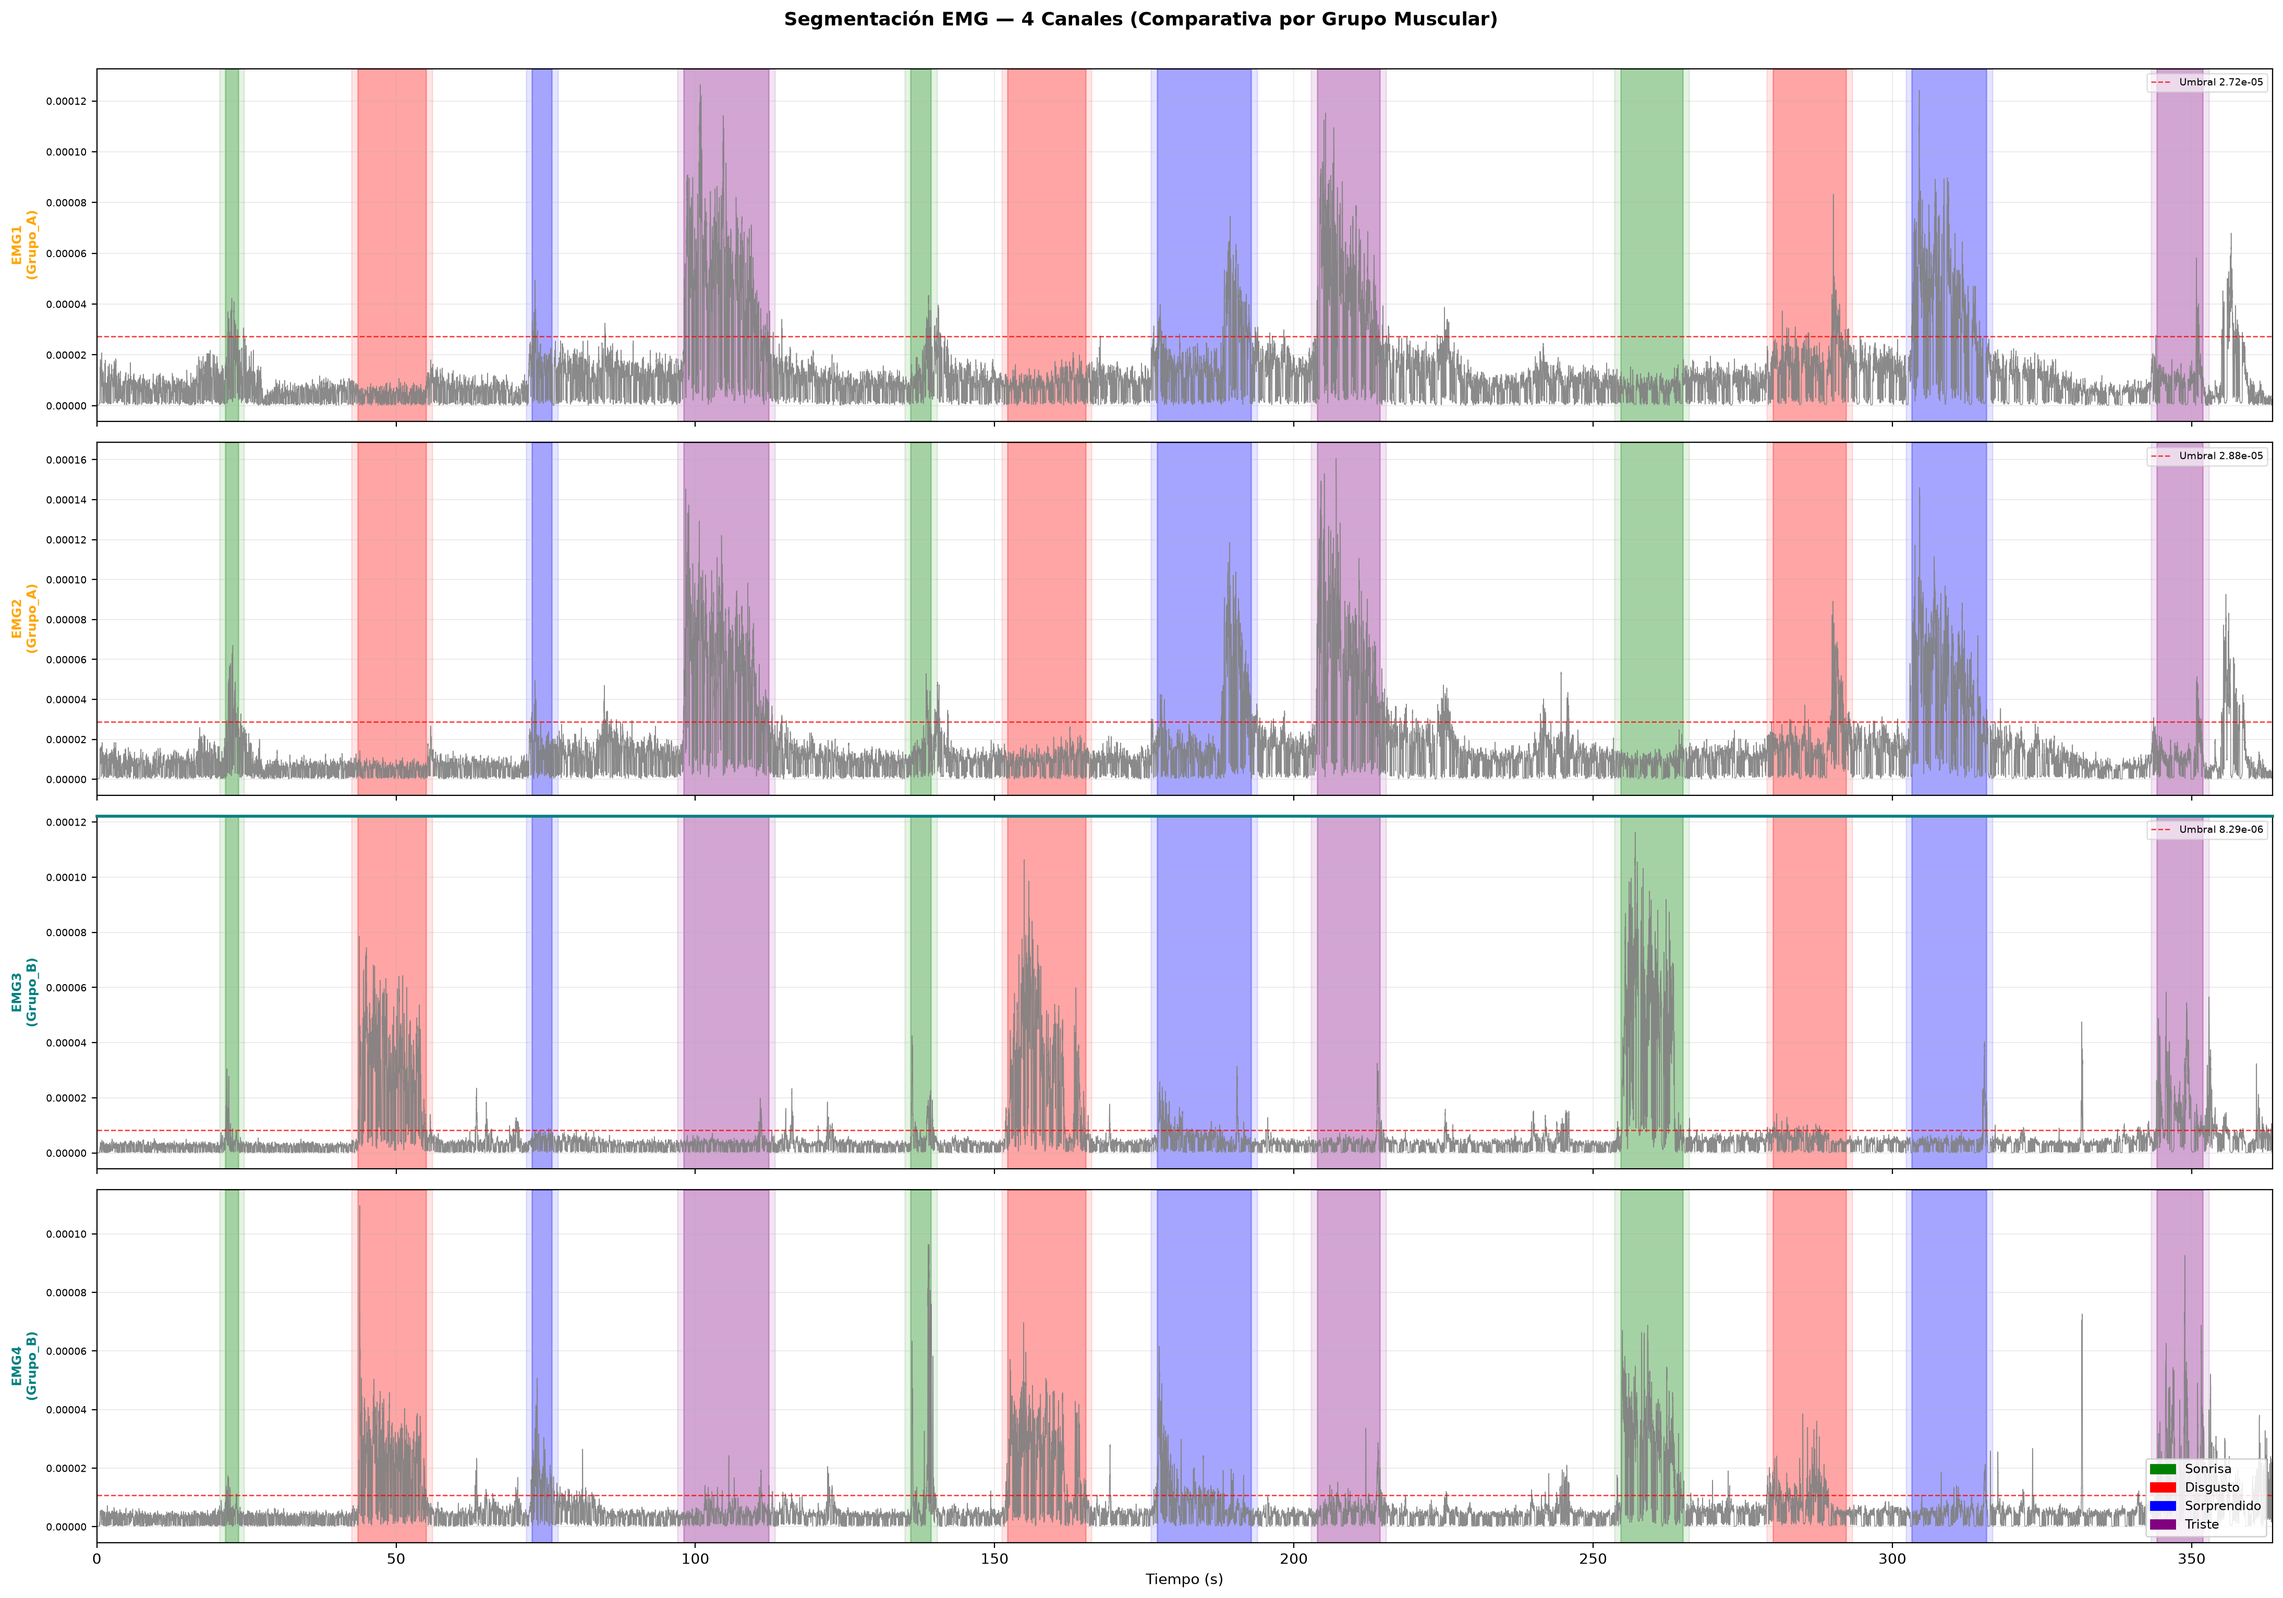
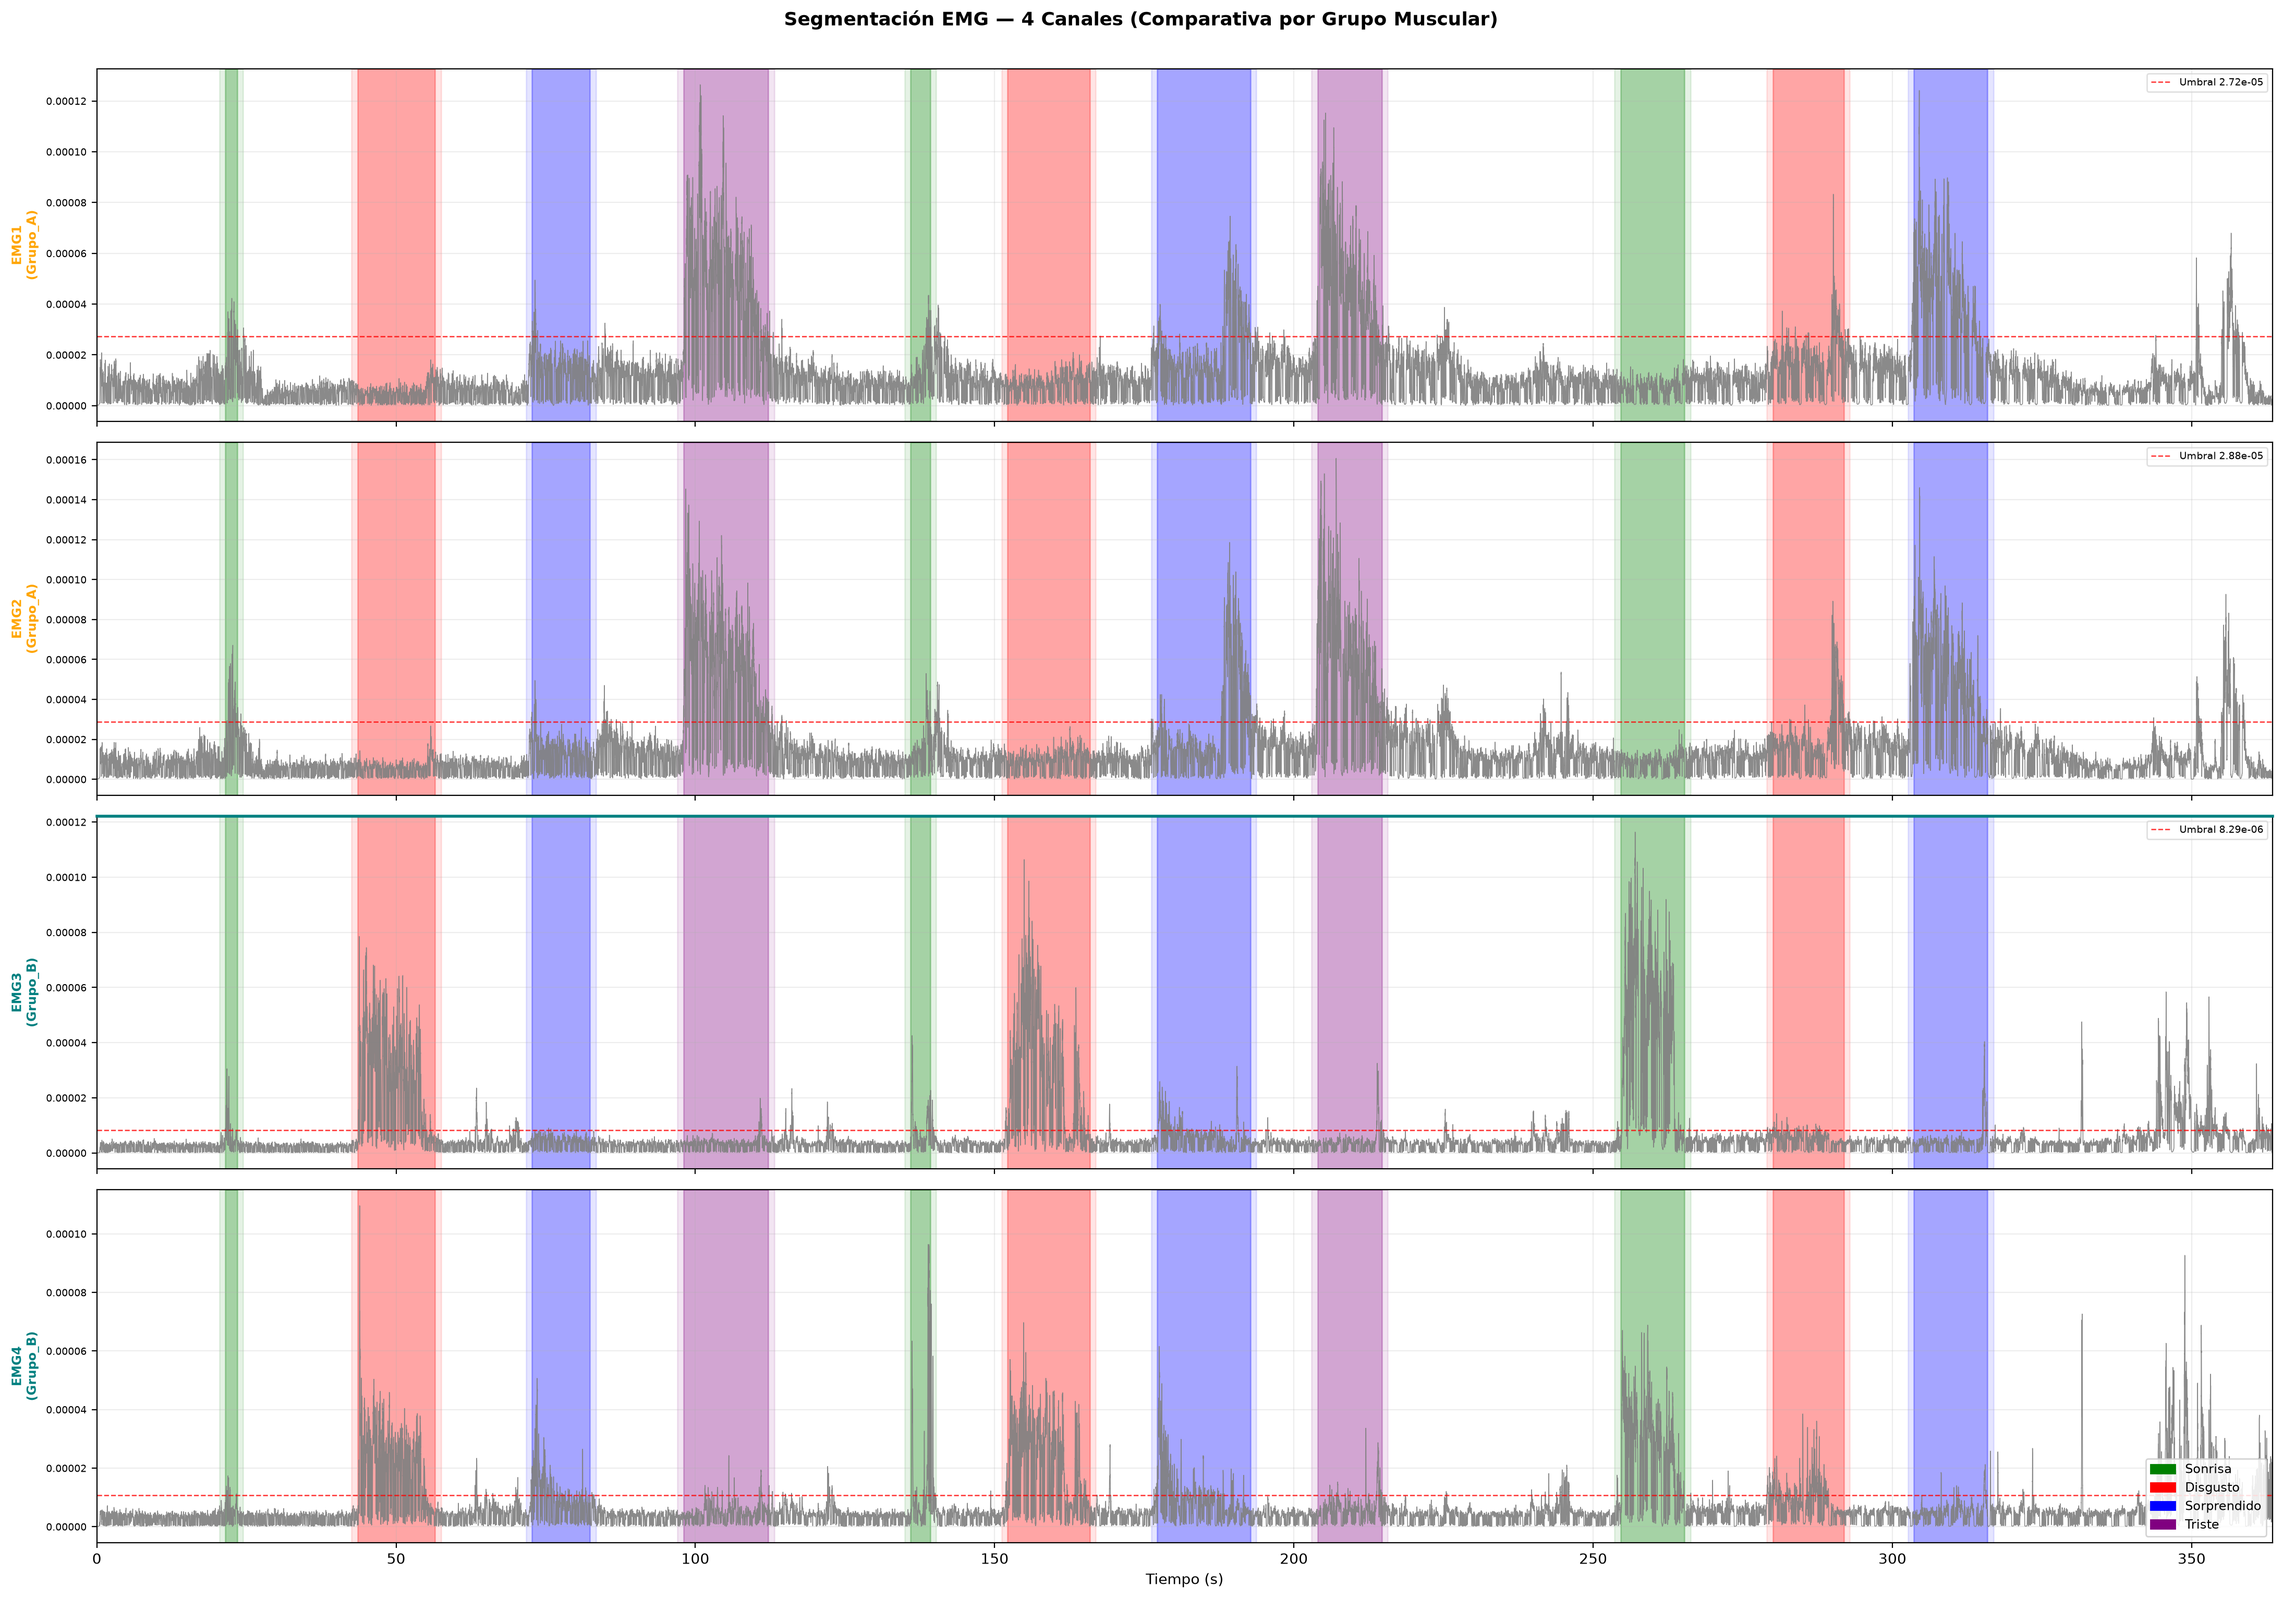
Delimitacion de ROI

diff --git a/main/run_segmentation.py b/main/run_segmentation.py
@@ -40,17 +40,21 @@ if __name__ == "__main__":
         baseline_window_sec=20.0,           # usado solo si use_rolling_baseline=False
 
         # Umbral doble / hysteresis: apagado mas laxo que encendido
-        k_offset_ratio=0.6,
+        k_offset_ratio=0.8,
         k_offset_ratio_per_group={
-            "Grupo_A": 0.6,
-            "Grupo_B": 0.6,
+            "Grupo_A": 0.8,
+            "Grupo_B": 0.2,
         },
 
         # Refinamiento con baseline local pre-countdown (5s antes del countdown)
         use_local_baseline_refinement=True,
         countdown_sec=3.0,                      # duracion del countdown antes del gesto
-        local_baseline_sec=5.0,                 # ventana de reposo previa al countdown a usar
-        local_refine_search_margin_sec=2.0,
+        local_baseline_sec=8.0,                 # ventana de reposo previa al countdown a usar
+        local_refine_search_margin_sec=5.0,
+
+        # Separa donde se muestrea el reposo de donde se empieza a buscar el cruce real
+        local_refine_safety_margin_sec=1.5,
+        local_refine_search_pre_buffer_sec=6.0,
 
         # Filtros de forma: energia y factor de cresta
         use_shape_filters=False,
@@ -60,13 +64,13 @@ if __name__ == "__main__":
 
         # Rango temporal de la grabacion util
         t_start=0.0,
-        t_end=400.0,
+        t_end=330.0,
         min_inter_event_sec=10.0,       # Separacion minima entre gestos (s)
         tolerance_sec=3.0,              # Tolerancia para asociar canales entre si
 
         # Forma de onda y gap filling
         smoothing_window_sec=0.5,       # Suavizado antes de detectar cruces
-        gap_fill_sec=1.5,               # Brecha maxima dentro de un mismo gesto
+        gap_fill_sec=3.0,               # Brecha maxima dentro de un mismo gesto
         min_event_dur_sec=2.0,          # Minimo post-gap-filling
         max_event_dur_sec=22.0,         # Maximo (gestos no duran mas de esto)
 
